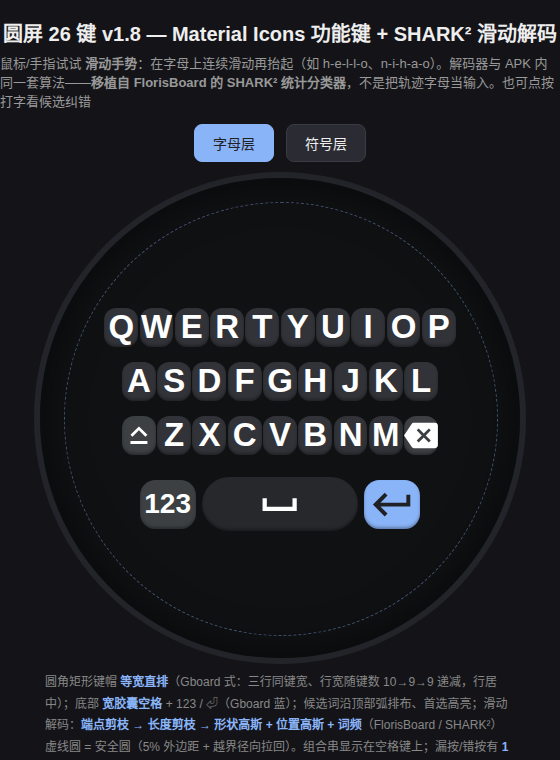
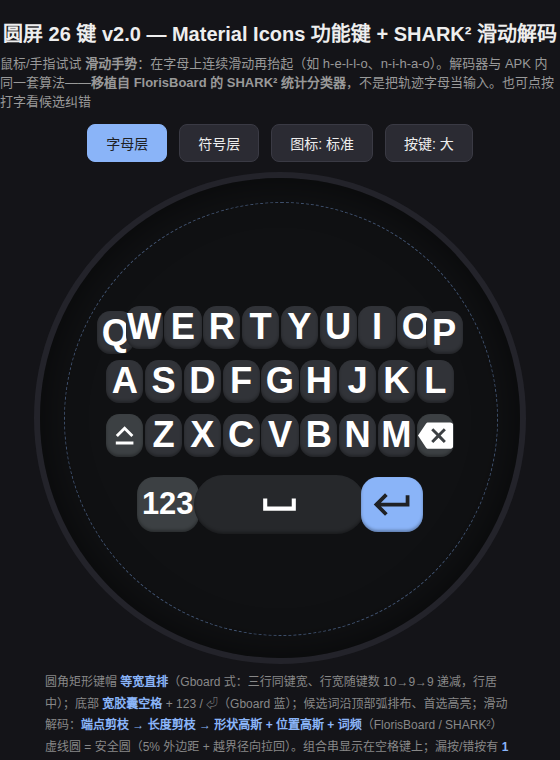
v2.1: 新增按键大小全局设置（字母/功能/候选键整体缩放）

Changed region(s): [[0.1518, 0.3934, 0.85, 0.7263], [0.1518, 0.1513, 0.85, 0.2118], [0.1821, 0.0303, 0.2732, 0.0605]]

diff --git a/app/src/main/java/com/example/roundkb/RoundKeyboardView.kt b/app/src/main/java/com/example/roundkb/RoundKeyboardView.kt
@@ -159,6 +159,9 @@ class RoundKeyboardView @JvmOverloads constructor(
         invalidate()
     }
 
+    /** 设置（按键大小等）变更后由 IME 调用，下次弹出键盘即生效 */
+    fun refreshLayout() = relayout()
+
     private fun safeRadius(size: Float): Float = size / 2f - max(MIN_MARGIN_PX, size * MARGIN_FRACTION)
 
     private fun layoutKeys(w: Float, h: Float) {
@@ -177,7 +180,8 @@ class RoundKeyboardView @JvmOverloads constructor(
         // 键帽近方形略高（宽:高 ≈ 0.87:1），行间隙仅键高的 1/2.4。
         val dTop = 0.42f * R
         val chordTop = sqrt(max(0f, R * R - dTop * dTop))
-        val unit = 2f * chordTop * ROW_SPAN / 10f
+        // 全局按键缩放（设置页 小/标准/大）
+        val unit = 2f * chordTop * ROW_SPAN / 10f * SettingsStore.keyScale(context)
 
         if (!symbols) {
             if (candMode) {
@@ -234,11 +238,12 @@ class RoundKeyboardView @JvmOverloads constructor(
 
     /** 底部控制行：123 / 宽空格 / ⏎，紧跟字母区（Gboard Wear 式大空格） */
     private fun addControls(cx: Float, cy: Float, R: Float) {
-        addKey("123", null, ACTION_MODE, cx - 0.52f * R, cy + 0.40f * R, 0.130f * R, 0.115f * R, true)
-        addKey("␣", " ", -1, cx, cy + 0.40f * R, 0.360f * R, 0.125f * R, true).apply {
+        val s = SettingsStore.keyScale(context)   // 控制键随全局按键缩放
+        addKey("123", null, ACTION_MODE, cx - 0.52f * R, cy + 0.40f * R, 0.130f * R * s, 0.115f * R * s, true)
+        addKey("␣", " ", -1, cx, cy + 0.40f * R, 0.360f * R * s, 0.125f * R * s, true).apply {
             iconRes = AppR.drawable.ic_space
         }
-        addKey("⏎", null, ACTION_ENTER, cx + 0.52f * R, cy + 0.40f * R, 0.130f * R, 0.115f * R, true).apply {
+        addKey("⏎", null, ACTION_ENTER, cx + 0.52f * R, cy + 0.40f * R, 0.130f * R * s, 0.115f * R * s, true).apply {
             iconRes = AppR.drawable.ic_return
         }
     }
@@ -278,8 +283,9 @@ class RoundKeyboardView @JvmOverloads constructor(
     private fun addCandidateRow(y0f: Float, cx: Float, cy: Float, R: Float) {
         if (candidates.isEmpty()) return
         val y = cy + y0f * R
-        val hh = 0.085f * R
-        val spacing = 0.335f * R
+        val s = SettingsStore.keyScale(context)   // 候选胶囊随全局按键缩放
+        val hh = 0.085f * R * s
+        val spacing = 0.335f * R * s
         candidates.forEachIndexed { i, text ->
             val k = Key()
             k.label = text
@@ -287,7 +293,7 @@ class RoundKeyboardView @JvmOverloads constructor(
             k.candIndex = i
             k.x = cx + (i - (candidates.size - 1) / 2f) * spacing
             k.y = y
-            k.hw = 0.155f * R
+            k.hw = 0.155f * R * s
             k.hh = hh
             k.control = true
             keys.add(k)

diff --git a/app/src/main/java/com/example/roundkb/MainActivity.kt b/app/src/main/java/com/example/roundkb/MainActivity.kt
@@ -88,6 +88,7 @@ private fun RoundKbScreen(stats: MutableState<String>, onRefresh: () -> Unit) {
 
     var iconScale by remember { mutableStateOf(SettingsStore.iconScale(context)) }
     var haptic by remember { mutableStateOf(SettingsStore.hapticMode(context)) }
+    var keyScale by remember { mutableStateOf(SettingsStore.keyScale(context)) }
 
     val picker = rememberLauncherForActivityResult(ActivityResultContracts.OpenDocument()) { uri ->
         if (uri != null && activity != null) {
@@ -130,6 +131,20 @@ private fun RoundKbScreen(stats: MutableState<String>, onRefresh: () -> Unit) {
                 }
                 ChoiceChip("大", iconScale == 1.25f) {
                     SettingsStore.setIconScale(context, 1.25f); iconScale = 1.25f
+                }
+            }
+
+            // ---- 按键大小 ----
+            SettingLabel("按键大小")
+            Row(horizontalArrangement = Arrangement.spacedBy(5.dp)) {
+                ChoiceChip("小", keyScale == 0.90f) {
+                    SettingsStore.setKeyScale(context, 0.90f); keyScale = 0.90f
+                }
+                ChoiceChip("标准", keyScale == 1.0f) {
+                    SettingsStore.setKeyScale(context, 1.0f); keyScale = 1.0f
+                }
+                ChoiceChip("大", keyScale == 1.10f) {
+                    SettingsStore.setKeyScale(context, 1.10f); keyScale = 1.10f
                 }
             }
 

diff --git a/app/src/main/java/com/example/roundkb/SettingsStore.kt b/app/src/main/java/com/example/roundkb/SettingsStore.kt
@@ -12,6 +12,7 @@ object SettingsStore {
     private const val PREFS = "settings"
     private const val KEY_ICON = "icon_scale"
     private const val KEY_HAPTIC = "haptic_mode"
+    private const val KEY_KEY_SCALE = "key_scale"
 
     /** 震动档位 */
     const val HAPTIC_OFF = 0
@@ -21,6 +22,21 @@ object SettingsStore {
 
     private var iconScaleCache = Float.NaN
     private var hapticCache = -1
+    private var keyScaleCache = Float.NaN
+
+    /** 按键大小全局缩放（字母键/功能键整体，1.0 = 标准） */
+    fun keyScale(ctx: Context): Float {
+        if (!keyScaleCache.isNaN()) return keyScaleCache
+        val v = ctx.getSharedPreferences(PREFS, Context.MODE_PRIVATE).getFloat(KEY_KEY_SCALE, 1.0f)
+        keyScaleCache = v
+        return v
+    }
+
+    fun setKeyScale(ctx: Context, value: Float) {
+        keyScaleCache = value
+        ctx.getSharedPreferences(PREFS, Context.MODE_PRIVATE)
+            .edit().putFloat(KEY_KEY_SCALE, value).apply()
+    }
 
     /** 功能键图标全局缩放（1.0 = 标准） */
     fun iconScale(ctx: Context): Float {

diff --git a/app/src/main/java/com/example/roundkb/RoundIME.kt b/app/src/main/java/com/example/roundkb/RoundIME.kt
@@ -32,9 +32,9 @@ class RoundIME : InputMethodService(), RoundKeyboardView.KeyListener {
 
     override fun onStartInput(attribute: EditorInfo?, restarting: Boolean) {
         super.onStartInput(attribute, restarting)
-        // 应用内更新词库后自动生效
+        // 应用内更新词库 / 全局设置（按键大小等）后自动生效
         WordStore.get(this).reloadIfChanged()
-        kb?.invalidate()
+        kb?.refreshLayout()
     }
 
     override fun onText(text: String) {

diff --git a/README.md b/README.md
@@ -100,6 +100,8 @@ app/src/main/java/com/example/roundkb/
 
 ## 更新日志
 
+- **v2.1**：新增**按键大小**全局设置（小 0.9 / 标准 1.0 / 大 1.1）——字母键、功能键、空格、候选胶囊整体缩放，越界自动拉回；IME 在 `onStartInput` 时重排，改完设置重新呼出键盘即生效
+
 - **v2.0**：功能键图标默认调小（键短边 1.10→0.95 基准）；新增**全局图标大小**设置（小/标准/大，即时生效）；新增**按键震动自定义**（关/弱/中/强，`VibrationEffect` 分档时长与振幅，滑行无命中等提示固定用强档）；设置页改为可滚动并加入 M3 FilterChip 选择器
 
 - **v1.9**：**Gboard Wear 式紧凑填满布局**——四行（3 字母行 + 控制行）行距统一 0.25R 紧凑堆叠，纵向撑满圆盘中带（顶行 -0.42R、控制行 +0.40R），消灭大片行间隙；键帽回到近方形略高（Gboard Wear 式饱满键帽），键间隙仅 4% 步距；大空格键与 123/⏎ 同行紧跟字母区
